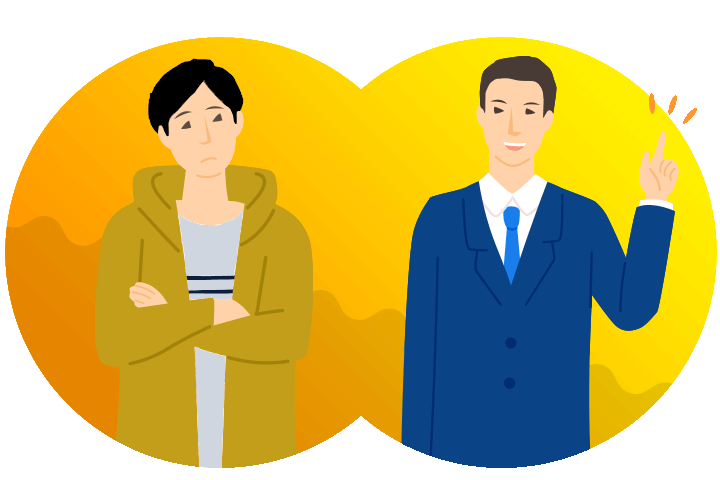
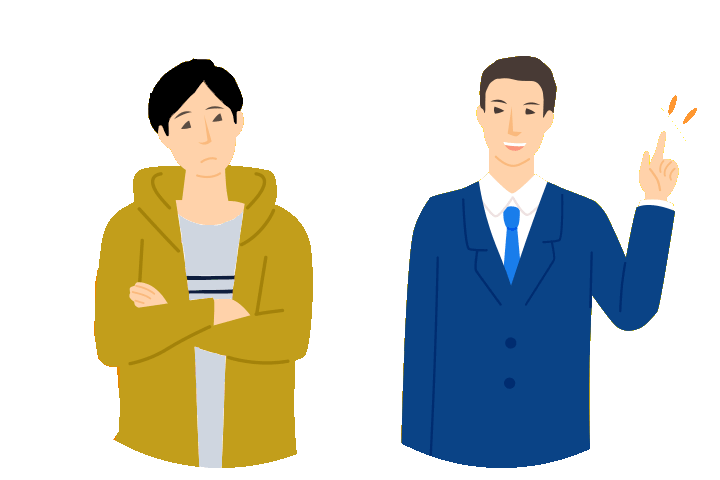
イラストを変更しました

diff --git a/index.html b/index.html
@@ -195,7 +195,7 @@
               <li class="answer">火災保険や地震保険の内容を確認して、相談しながら修繕を行うことも可能です。</li>
             </ul>
           </li>
-          <li class="case"><img src="img/trouble.png" alt=""></li>
+          <li class="case"><img src="img/que.png" alt=""></li>
           <li class="case">
             <ul>
               <li class="h3">
@@ -227,7 +227,7 @@
         <h4 class="match_h4 alli">【提携工務店について】</h4>
         <div class="alliance">
           <ul>
-            <li class="img"><img src="img/alliance.png" alt=""></li>
+            <li class="img"><img src="img/consal.png" alt=""></li>
             <li>RESCUEでは<span class="bold">建築業界の最難関資格</span>である<br> <span class="big">&lceil;一級建築士&rfloor;</span><span
                 class="bold">を保有した専門家</span>によって、<br> 提携工務店の審査を行っております。<br> <span
                 class="bold">建物のプロによる審査を通過した工務店のみ</span>を<br> ご紹介致します。
@@ -243,7 +243,7 @@
               <li>
                 <h4>工務店紹介</h4>
               </li>
-              <li><img src="img/kotira_komuten.png" alt=""></li>
+              <li><img class="sotre" src="img/store.png" alt=""></li>
               <li>住宅の外周り、室内、床下、天井裏、設備における<br>調査を行う工務店をご紹介します。
               </li>
               <li class="btn">
@@ -265,7 +265,7 @@
               <li>
                 <h4>申請サポート会社の紹介</h4>
               </li>
-              <li><img src="img/kotira_kasai.png" alt=""></li>
+              <li><img src="img/off.png" alt=""></li>
               <li>台風や積雪などによる住宅被害の調査を行うプロを<br>ご紹介し保険の申請業務と修繕工事をサポート致します。
               </li>
               <li class="btn">

diff --git a/s/style.css b/s/style.css
@@ -216,9 +216,10 @@ header{
 	background:#111;
 	padding:10px 0 10px 10px;
 }
-header img{
-	width:145px;
-	height:30px;
+header img {
+    width: 145px;
+    height: 41px;
+    margin-left: -2vw;
 }
 
 /*h2*/

diff --git a/style.css b/style.css
@@ -693,3 +693,6 @@ div.builder.see{
 .header{
     display: none;
 }
+.sotre {
+    padding-bottom: 3.1vw;
+}
